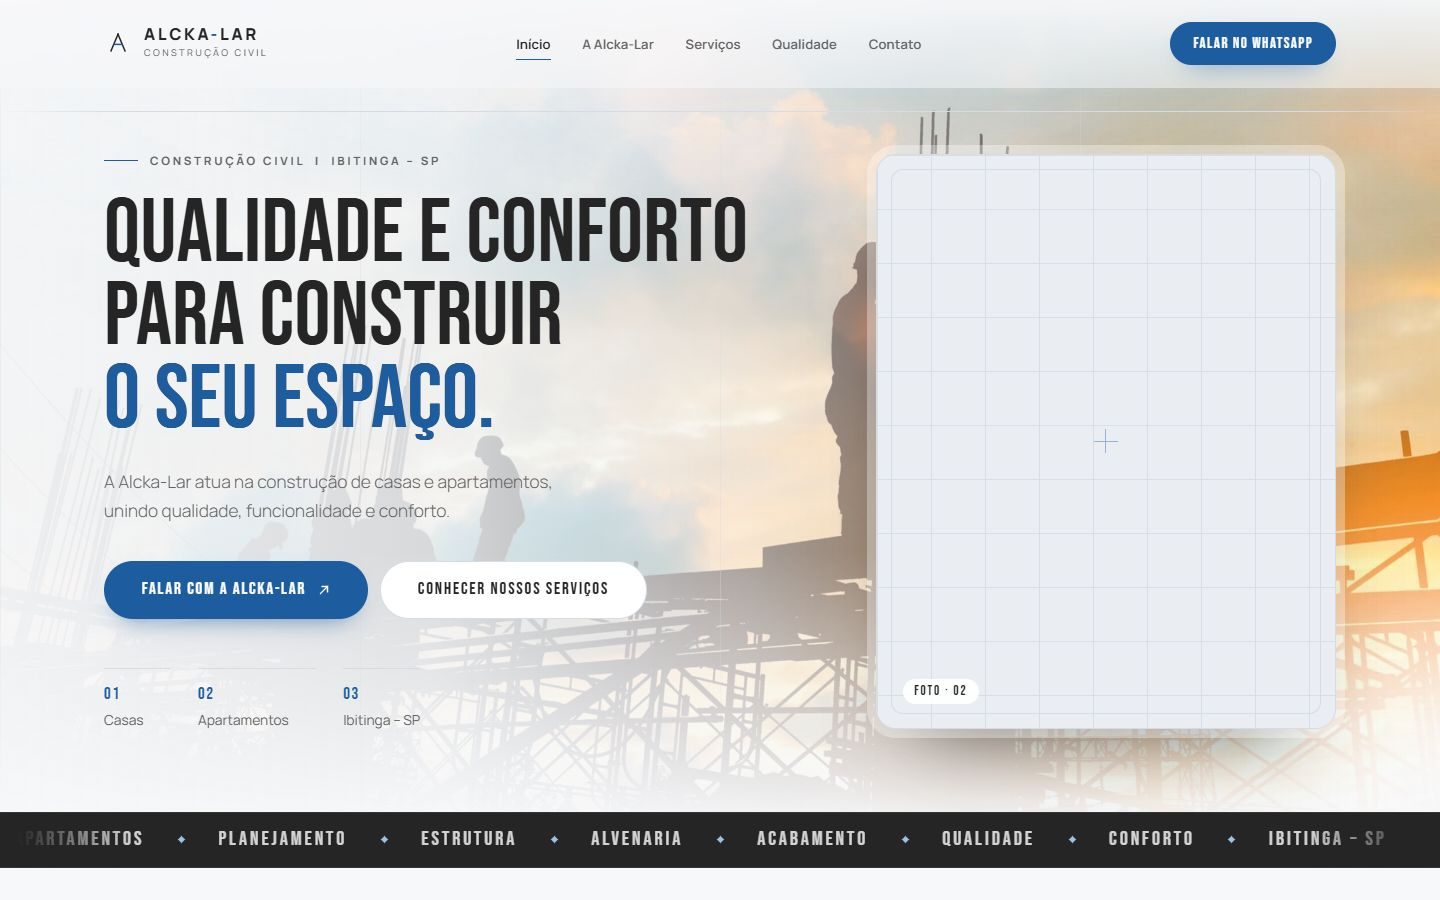
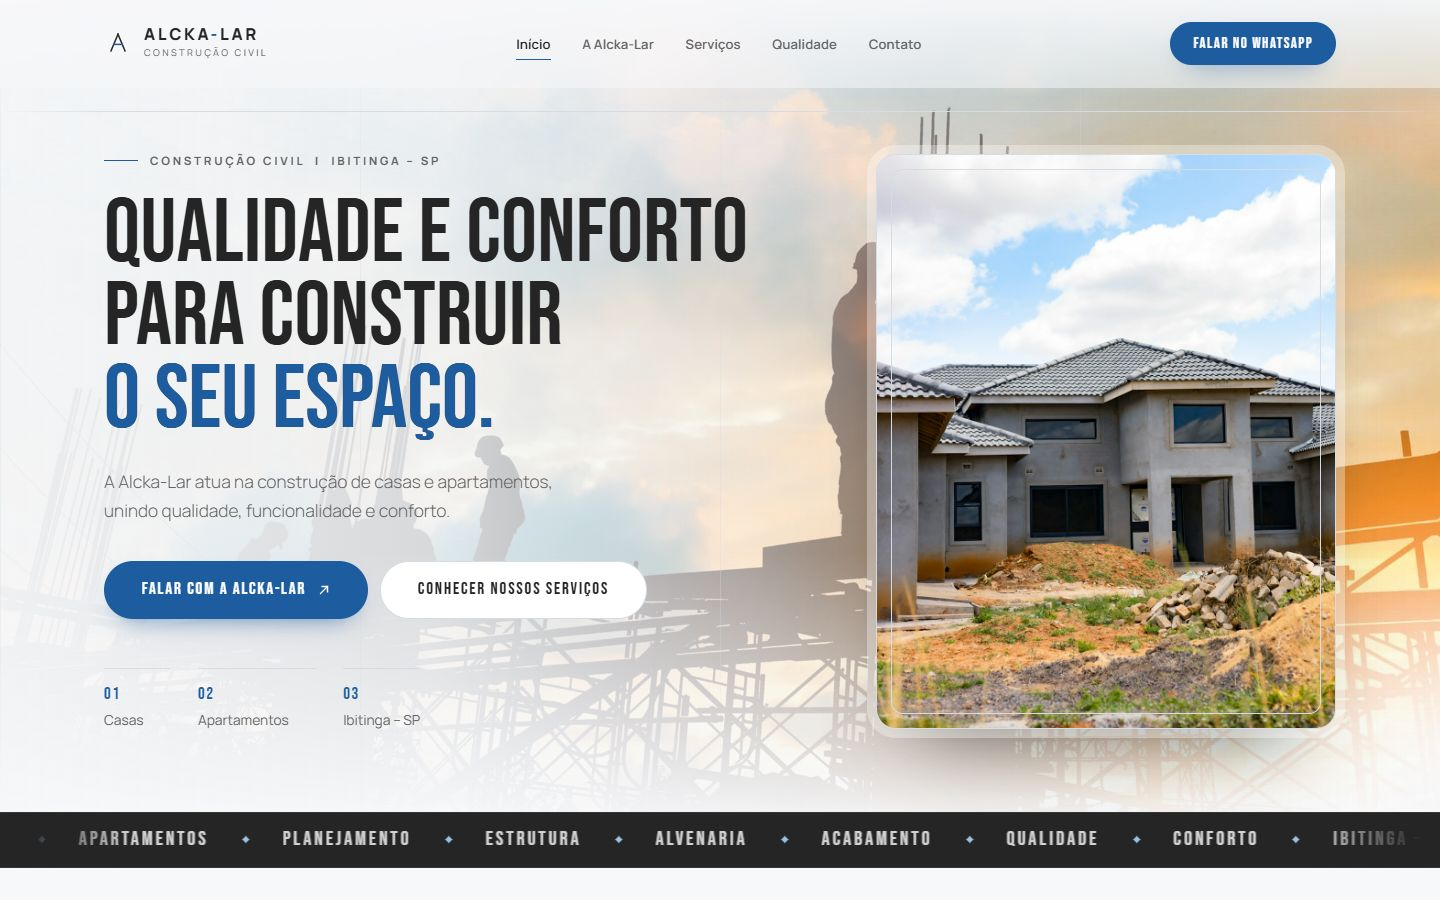
Alcka-Lar: adiciona foto de obra residencial no card do hero (preview)

diff --git a/public/projects/alckalar/index.html b/public/projects/alckalar/index.html
@@ -178,10 +178,8 @@
       </div>
 
       <div class="hero__media" data-hero="3">
-        <figure class="ph ph--4x5 ph--card" role="img" aria-label="Espaço reservado para fotografia de obra residencial">
-          <span class="ph__grid" aria-hidden="true"></span>
-          <span class="ph__cross" aria-hidden="true"></span>
-          <figcaption class="ph__tag">Foto &middot; 02</figcaption>
+        <figure class="ph ph--4x5 ph--card">
+          <img class="ph__img" src="assets/img/hero-obra.jpg" alt="Obra residencial em construção" loading="lazy" decoding="async">
         </figure>
       </div>
     </div>
